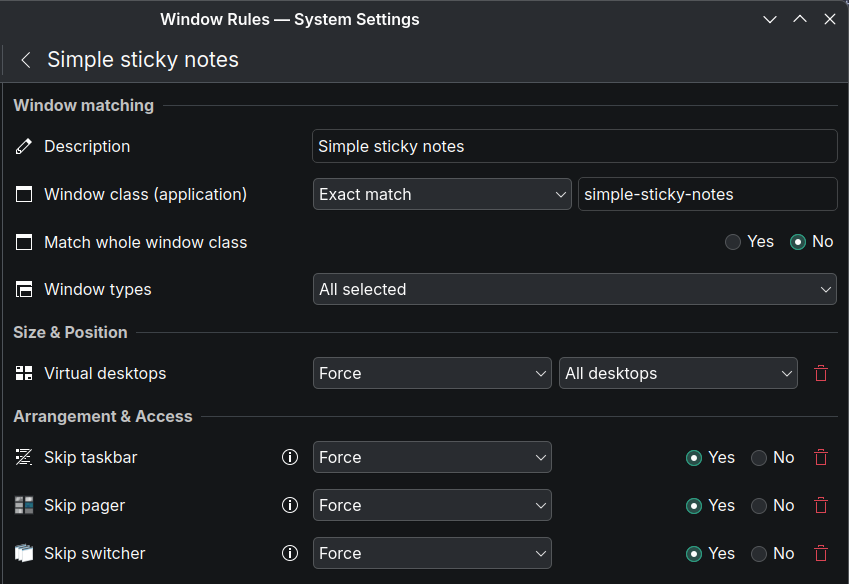
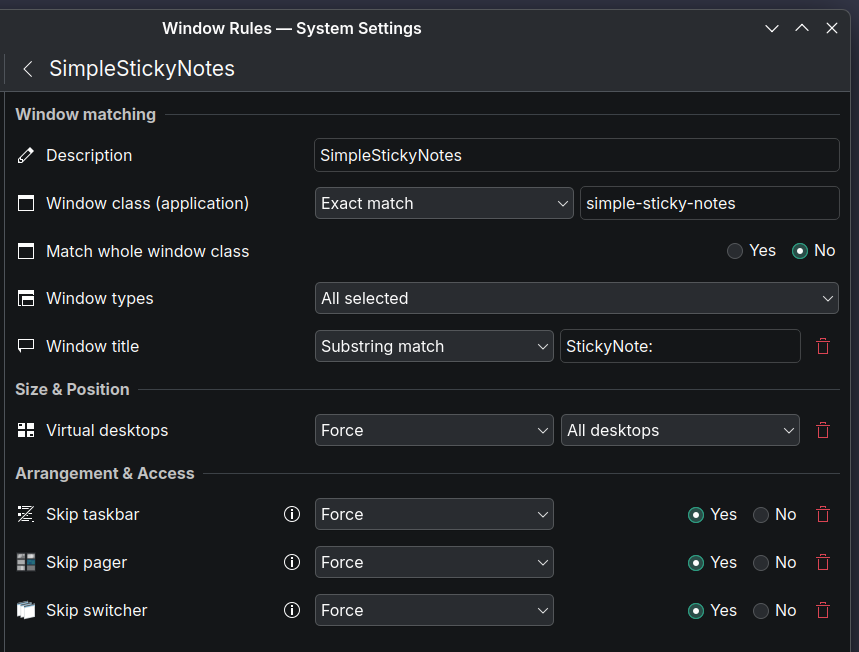
Work on automatic handling of KDE Window Rules. Seems to work! Still need to handle the case where no rules exist at first. Changed the rule so that only stickies are hidden from taskbar, not the message dialogs etc. README improved as well.

diff --git a/components/kwin_window_rules.py b/components/kwin_window_rules.py
@@ -1,0 +1,136 @@
+from configparser import ConfigParser
+from pathlib import Path
+import shutil
+import uuid
+
+from PySide6.QtWidgets import QMessageBox
+from PySide6.QtDBus import QDBusInterface, QDBusConnection
+
+from components.notes_protocol import NotesProtocol
+
+
+class KWinWindowRules:
+	"""
+	Helper class to handle KWin window rules
+	"""
+
+	def check_kwin_window_rules(app_name: str, app: NotesProtocol):
+		kwin_config = Path.home() / ".config" / "kwinrc"
+		if not kwin_config.exists():
+			# kwinrc does not exists, probably not running KDE -> can't do anything, bail out
+			print("KWin config (~/.config/kwinrc) not found, probably not running KDE?")
+			return
+
+		# Detect if the KWin rules already include our rule
+		kwin_rules_file = kwin_config.with_name("kwinrulesrc")
+		if kwin_rules_file.exists():
+			config_text = kwin_rules_file.read_text(encoding="utf-8")
+			if "SimpleStickyNotes" in config_text and "simple-sticky-notes" in config_text:
+				print("Window Rule seems to be already in place, no need to do anything.")
+				return
+		
+		bus = QDBusConnection.sessionBus()
+		kwin_interface = QDBusInterface("org.kde.KWin", "/KWin", "org.kde.KWin", bus)
+		if kwin_interface.isValid() and bus.isConnected():
+			# Offer to register KWin rules to hide notes from taskbar etc.
+			reply = QMessageBox.question(None,
+					"Add KDE Window Rule",
+					f"""
+					Thanks for trying <b>{app_name}</b>!<br><br>
+					For proper user experience, the sticky notes should not appear in taskbar and task switcher.
+					KDE Window Rules can be used to achieve this.<br><br>
+					Do you want to add KWin window rule to keep sticky notes from appearing in taskbar and task switcher? (This can be done manually, too.)
+					""",
+					QMessageBox.Yes | QMessageBox.No, QMessageBox.Yes)
+			if reply == QMessageBox.Yes:
+				KWinWindowRules._register_kwin_rule(kwin_interface, app)
+			else:
+				print("(Probably) need to add window rule manually!")
+
+
+	def _register_kwin_rule(kwin_interface: QDBusInterface, app: NotesProtocol):
+		GENERAL_SECTION = "General"
+		kwin_rules_file = Path.home() / ".config" / "kwinrulesrc"
+
+		try:
+			rules_config = ConfigParser()
+			rules_config.optionxform = lambda opt: opt  # Keep option names as is, by default transforms to lower-case
+
+			if not kwin_rules_file.exists():
+				# FIXME: No rules file, probably no rules configured. Create one.
+				raise NotImplementedError("Need to create a new rules file!")
+			else:
+				# Need to add a new rule to the existing config file. We want to have it under [General]-section,
+				# so that it will be user visible in KDE Window Rule -settings.
+
+				# First make a backup, abort if backup already exists or cannot be made
+				rules_backup_file = kwin_rules_file.with_name("kwinrulesrc.bak")
+				if rules_backup_file.exists():
+					raise FileExistsError(f"KWin rules file backup already exists at {rules_backup_file}! Aborting rule addition for safety.")
+				shutil.copy2(str(kwin_rules_file), str(rules_backup_file))
+				if not rules_backup_file.exists() or rules_backup_file.stat().st_size != kwin_rules_file.stat().st_size:
+					raise FileNotFoundError(f"Failed to make backup of {kwin_rules_file}! Aborting rule addition for safety.")
+
+				# Read the config file and update the [General]-section
+				if not rules_config.read(kwin_rules_file, encoding="utf-8"):
+					raise IOError(f"Cannot parse {kwin_rules_file}!")
+
+				if GENERAL_SECTION not in rules_config:
+					rules_config[GENERAL_SECTION] = {}
+
+				# Generate a new UUID for the new rule (mixing indices and UUIDs should work)
+				new_uuid = str(uuid.uuid4())
+
+				rules_count = rules_config[GENERAL_SECTION].getint("count", 0)
+				current_rules = rules_config[GENERAL_SECTION].get("rules", "")
+				if not current_rules:
+					assert(rules_count == 0)
+					new_rules = new_uuid
+				else:
+					new_rules = f"{current_rules},{new_uuid}"
+
+				rules_config[GENERAL_SECTION]["count"] = str(rules_count + 1)
+				rules_config[GENERAL_SECTION]["rules"] = new_rules
+
+				# Create the new rule section
+				rules_config[new_uuid] = {
+					"Description": "SimpleStickyNotes",
+					"desktops": "\\\\0",
+					"desktopsrule": "2",
+					"skippager": "true",
+					"skippagerrule": "2",
+					"skipswitcher": "true",
+					"skipswitcherrule": "2",
+					"skiptaskbar": "true",
+					"skiptaskbarrule": "2",
+					"title": "StickyNote:",
+					"titlematch": "2",
+					"wmclass": "simple-sticky-notes",
+					"wmclassmatch": "1",
+				}
+
+				# Save changes
+				with open(str(kwin_rules_file), "wt", encoding="utf-8") as file:
+					rules_config.write(file, False)
+
+				# Hide notes temporarily
+				notes_were_visible = app.are_notes_visible()
+				if notes_were_visible:
+					app.set_notes_visible(False)
+
+				# Signal KWin to reload the rules
+				kwin_interface.call("reconfigure")
+				print("Added a new window rule.")
+				QMessageBox.information(None, "Window Rule added", "Successfully added a new window rule for the sticky notes. Please restart the app if it does not immediately work.")
+
+				# Restore notes
+				if notes_were_visible:
+					app.set_notes_visible(True)
+
+
+		except BaseException as ex:
+			msg = f"Failed to register KWin rule, need to add manually!\n\nError: {ex}"
+			print("ERROR: " + msg)
+			QMessageBox.warning(None, "Failed to register window rule", msg)
+			return
+

diff --git a/simple_sticky_notes.py b/simple_sticky_notes.py
@@ -9,11 +9,11 @@ os.environ["QT_QPA_PLATFORM"] = "xcb"
 from PySide6.QtWidgets import QApplication, QSystemTrayIcon, QMenu, QMessageBox
 from PySide6.QtCore import QCommandLineOption, QCommandLineParser, QSettings, QSize, QStandardPaths, QTimer
 from PySide6.QtGui import QFont, QFontDatabase, QIcon, Qt
-from PySide6.QtDBus import QDBusInterface, QDBusConnection
 
 from components.icon_cache import IconCache
 from components.sticky_note import StickyNote
 from components.notes_protocol import NotesProtocol
+from components.kwin_window_rules import KWinWindowRules
 
 
 APP_NAME_PATH = "simple-sticky-notes"
@@ -29,7 +29,7 @@ FONTS_PATH = Path(__file__).parent / "fonts"
 
 
 class SimpleStickyNotes(NotesProtocol):
-	""" Main application class """
+	""" Main application class: manages the notes and app config + system tray icon """
 
 	def __init__(self):
 		self.app = QApplication(sys.argv)
@@ -44,8 +44,7 @@ class SimpleStickyNotes(NotesProtocol):
 		self.process_command_line_args(self.app)
 		first_run = self.load_config()
 		if first_run:
-			#self.register_kwin_rules()
-			pass
+			QTimer.singleShot(0, lambda: KWinWindowRules.check_kwin_window_rules(APP_DISPLAY_NAME, self))
 
 		#icon = QIcon.fromTheme("note-new")
 		icon = IconCache.load_icon_svg("stickies.svg", size=QSize(64,64), scale=0.9, color=Qt.GlobalColor.white)
@@ -56,7 +55,7 @@ class SimpleStickyNotes(NotesProtocol):
 
 		# Load saved notes or create initial note if nothing is loaded
 		self.notes: list[StickyNote] = []
-		self.are_notes_visible = True
+		self._are_notes_visible = True
 		self._is_quitting = False
 		self.load_notes()
 		if not self.notes:
@@ -74,6 +73,7 @@ class SimpleStickyNotes(NotesProtocol):
 		parser.addVersionOption()
 
 		parser.addOption(QCommandLineOption(["s", "stealth"], "Stealth-mode: hides notes on startup."))
+		# TODO: Add option to (re)run the KDE Window Rule -checker
 		parser.process(app)
 
 		self.stealth_mode = parser.isSet("stealth")
@@ -127,9 +127,9 @@ class SimpleStickyNotes(NotesProtocol):
 
 
 	def on_tray_activated(self, reason):
-		if reason == QSystemTrayIcon.ActivationReason.Trigger:  # Left click
+		if reason == QSystemTrayIcon.ActivationReason.Trigger: # Left click
 			# If hiding notes, autosave
-			if self.are_notes_visible:
+			if self._are_notes_visible:
 				self.save_notes()
 			self.toggle_notes()
 
@@ -153,13 +153,7 @@ class SimpleStickyNotes(NotesProtocol):
 
 
 	def toggle_notes(self):
-		self.set_notes_visible(not self.are_notes_visible)
-
-
-	def set_notes_visible(self, visible: bool):
-		self.are_notes_visible = visible
-		for note in self.notes:
-			note.setVisible(visible)
+		self.set_notes_visible(not self._are_notes_visible)
 
 
 	def create_note(self):
@@ -167,7 +161,7 @@ class SimpleStickyNotes(NotesProtocol):
 					text = f"Note #{len(self.notes) + 1}",
 					title = self.settings.value("notes/default_title"),
 					app = self)
-		if not self.are_notes_visible:
+		if not self._are_notes_visible:
 			self.toggle_notes()
 
 		# Center on screen
@@ -262,6 +256,16 @@ class SimpleStickyNotes(NotesProtocol):
 
 	# Implement NotesProtocol:
 	#---------------------------
+	def set_notes_visible(self, visible: bool):
+		self._are_notes_visible = visible
+		for note in self.notes:
+			note.setVisible(visible)
+
+
+	def are_notes_visible(self) -> bool:
+		return self._are_notes_visible
+
+
 	def delete_note(self, note: StickyNote):
 		# TODO: Perhaps should keep the last deleted note saved and allow undeleting it
 		if note in self.notes:
@@ -296,29 +300,9 @@ class SimpleStickyNotes(NotesProtocol):
 	def get_monospace_font(self) -> QFont:
 		return self.monospace_font
 
-
 	def get_menu_font(self) -> QFont:
 		return self.menu_font
 	#---------------------------
-
-
-	def register_kwin_rules(self):
-		bus = QDBusConnection.sessionBus()
-		kwin_interface = QDBusInterface("org.kde.KWin", "/KWin", "org.kde.KWin", bus)
-		if kwin_interface.isValid() and bus.isConnected():
-			# TODO: Offer to register KWin rules to hide notes from taskbar etc.
-			print("KWIN dbus is OK!")
-			reply = QMessageBox.question(None,
-					"Add window rule",
-					"Add KWin window rule to keep sticky notes from appearing in taskbar and task switcher?",
-					QMessageBox.Yes | QMessageBox.No,
-					QMessageBox.Yes)
-			if reply == QMessageBox.Yes:
-				# TODO: Add kwin rules, perhaps add them to [General] with UUID, so they are visible in KDE settings
-				result = kwin_interface.call("reconfigure")
-				print(f"Added window rules")
-			else:
-				print("Need to add window rule manually!")
 
 
 

diff --git a/components/sticky_note.py b/components/sticky_note.py
@@ -99,7 +99,7 @@ class StickyNote(QWidget):
 		self.title = EllipsisLabel(title, self.header)
 		self.title.setFont(app.get_app_font())
 		self.title.setObjectName("title")
-		self.setWindowTitle(title)
+		self.setWindowTitle(f"StickyNote: {title}")
 
 		# Stacked title editor
 		self.title_editor = QLineEdit(title, self.header)

diff --git a/components/notes_protocol.py b/components/notes_protocol.py
@@ -9,6 +9,8 @@ if TYPE_CHECKING:
 
 # NOTE: Could use signals for these..
 class NotesProtocol(Protocol):
+	def set_notes_visible(visible: bool): ...
+	def are_notes_visible() -> bool: ...
 	def delete_note(note: StickyNote): ...
 	def on_note_sent_to_front(note: StickyNote): ...
 	def is_quitting() -> bool: ...

diff --git a/README.md b/README.md
@@ -6,18 +6,21 @@ This app was partially inspired by [**Linux Mint** Sticky](https://github.com/li
 
 **TODO: ADD SCREENSHOT(S)**
 
+
 ## Features
 - Sticky notes of different colors, basic rich-text support (**bold**, _italic_, ~~strikethrough~~ and <ins>underline</ins>)
 - Notes can have optional title (_double-click_ to edit)
 - One click on the system tray icon to hide/show notes!
 - Global font name & size can be set through the [config-file](#configuration-file)
 	- Text size can be adjusted individually per sticky note as needed
+	- Sticky notes can be set to use fixed-width/monospace font
 - ✅ [Emoji-support](#emoji-support)
-- Works in KDE, but alas, through XWayland for now... 😔
-	- I ran into issues with note/window positioning on Wayland and ultimately ended up side-stepping the issue by running in XWayland 🫣
+- Designed for **KDE**, however...
+	- I ran into issues with note/window positioning on **Wayland** and ultimately ended up side-stepping the issue by running in **XWayland** 🫣
 	- I _have_ some ideas on how to realise native Wayland support, but it remains to be seen if I can be bothered to try them.. 🤔
 	- Also needs a _KDE Window Rule_ to avoid stickies from showing up in taskbar / task switcher (→ see [installation notes below](#kde-window-rule-or-how-to-avoid-stickies-being-all-over-the-taskbar))
 - Written in **Python** using **PySide6**/**Qt**
+
 
 ## Install / setup notes
 After cloning the code, run these commands to create the virtual environment, activate it and install dependencies:
@@ -43,13 +46,12 @@ In any case, for proper UX, the stickies should be hidden from task switchers. T
 
 
 #### Automatic setup:
-**TODO: IMPLEMENT THIS**
-
-On the first run, **Simple Sticky Notes** offers to add the window rule for you, unless it already exists. Accept and it should do the trick.
+On the first run, **(Simple) Sticky Notes** offers to add the window rule for you (by modifying `~/.config/kwinrulesrc`), unless it already exists. Accept and it should do the trick. Before changing anything, a backup is first made to `~/.config/kwinrulesrc.bak`.
 
 #### Manual setup:
-Go to **KDE System Settings** → **Window Rules** and add a new rule. Configure it like below:
-- Window class, match: `simple-sticky-notes`
+Go to **KDE System Settings** → **Window Rules** and add select _"Import..."_ Pick the included `sticky_notes.kwinrule`. You can also manually add a new rule and configure it like below:
+- Window class, exact match: `simple-sticky-notes`
+- Window title, substring match: `StickyNote:`
 - Virtual desktops: **Force, All desktops** (this is optional)
 - Skip taskbar: **Force, Yes**
 - Skip pager: **Force, Yes**
@@ -58,6 +60,7 @@ Go to **KDE System Settings** → **Window Rules** and add a new rule. Configure
 
 ### Emoji-support
 Emojis in notes will work, _if_ **Qt** has support for rendering using the configured font. See below on emoji font configuration. This app comes bundled with the [Noto Color Emoji](https://github.com/googlefonts/noto-emoji)-font, which is set to be preferred by default. Note that the newer Noto Emoji font (`Noto-COLRv1.ttf` that comes bundled with Fedora, for example) currently fails to render in **Qt** font engine. Other emoji fonts can be used by changing the configuration file, see below.
+
 
 ## Configuration file
 After the first run, the configuration file is created at `~/.config/simple-sticky-notes/simple-sticky-notes.conf`. Here are the options explained:
@@ -72,10 +75,12 @@ After the first run, the configuration file is created at `~/.config/simple-stic
 ||`color_icon_name`|`droplet`|Icon for the color picker: can be set to `brush`, `droplet`, `paintbrush` or `palette` for a different icon. (Only because I couldn't decide which icon is the best!)|
 ||`hide_on_startup`|`false`|Whether to hide notes on app startup. **NOTE:** Command-line argument `--stealth` or `-s` can also be used to force notes stay hidden, regardless of this setting.|
 
+
 ## TODO-list
 - [ ] Note scrollbar should be styled to look nicer
-- [ ] Investigate automatic KWin rule setup
+- [ ] Note text format menu should be styled to look nicer
 - [ ] Periodic autosave? (need to detect if notes are "dirty")
 	- Or trigger save after typing / making changes (with some delay)
 - [ ] Maybe detect URLs from notes and make them clickable
-- [x] Fixed-width/monospace font option per sticky note
+- [x] **DONE:** Investigate automatic KWin rule setup
+- [x] **DONE:** Fixed-width/monospace font option per sticky note
